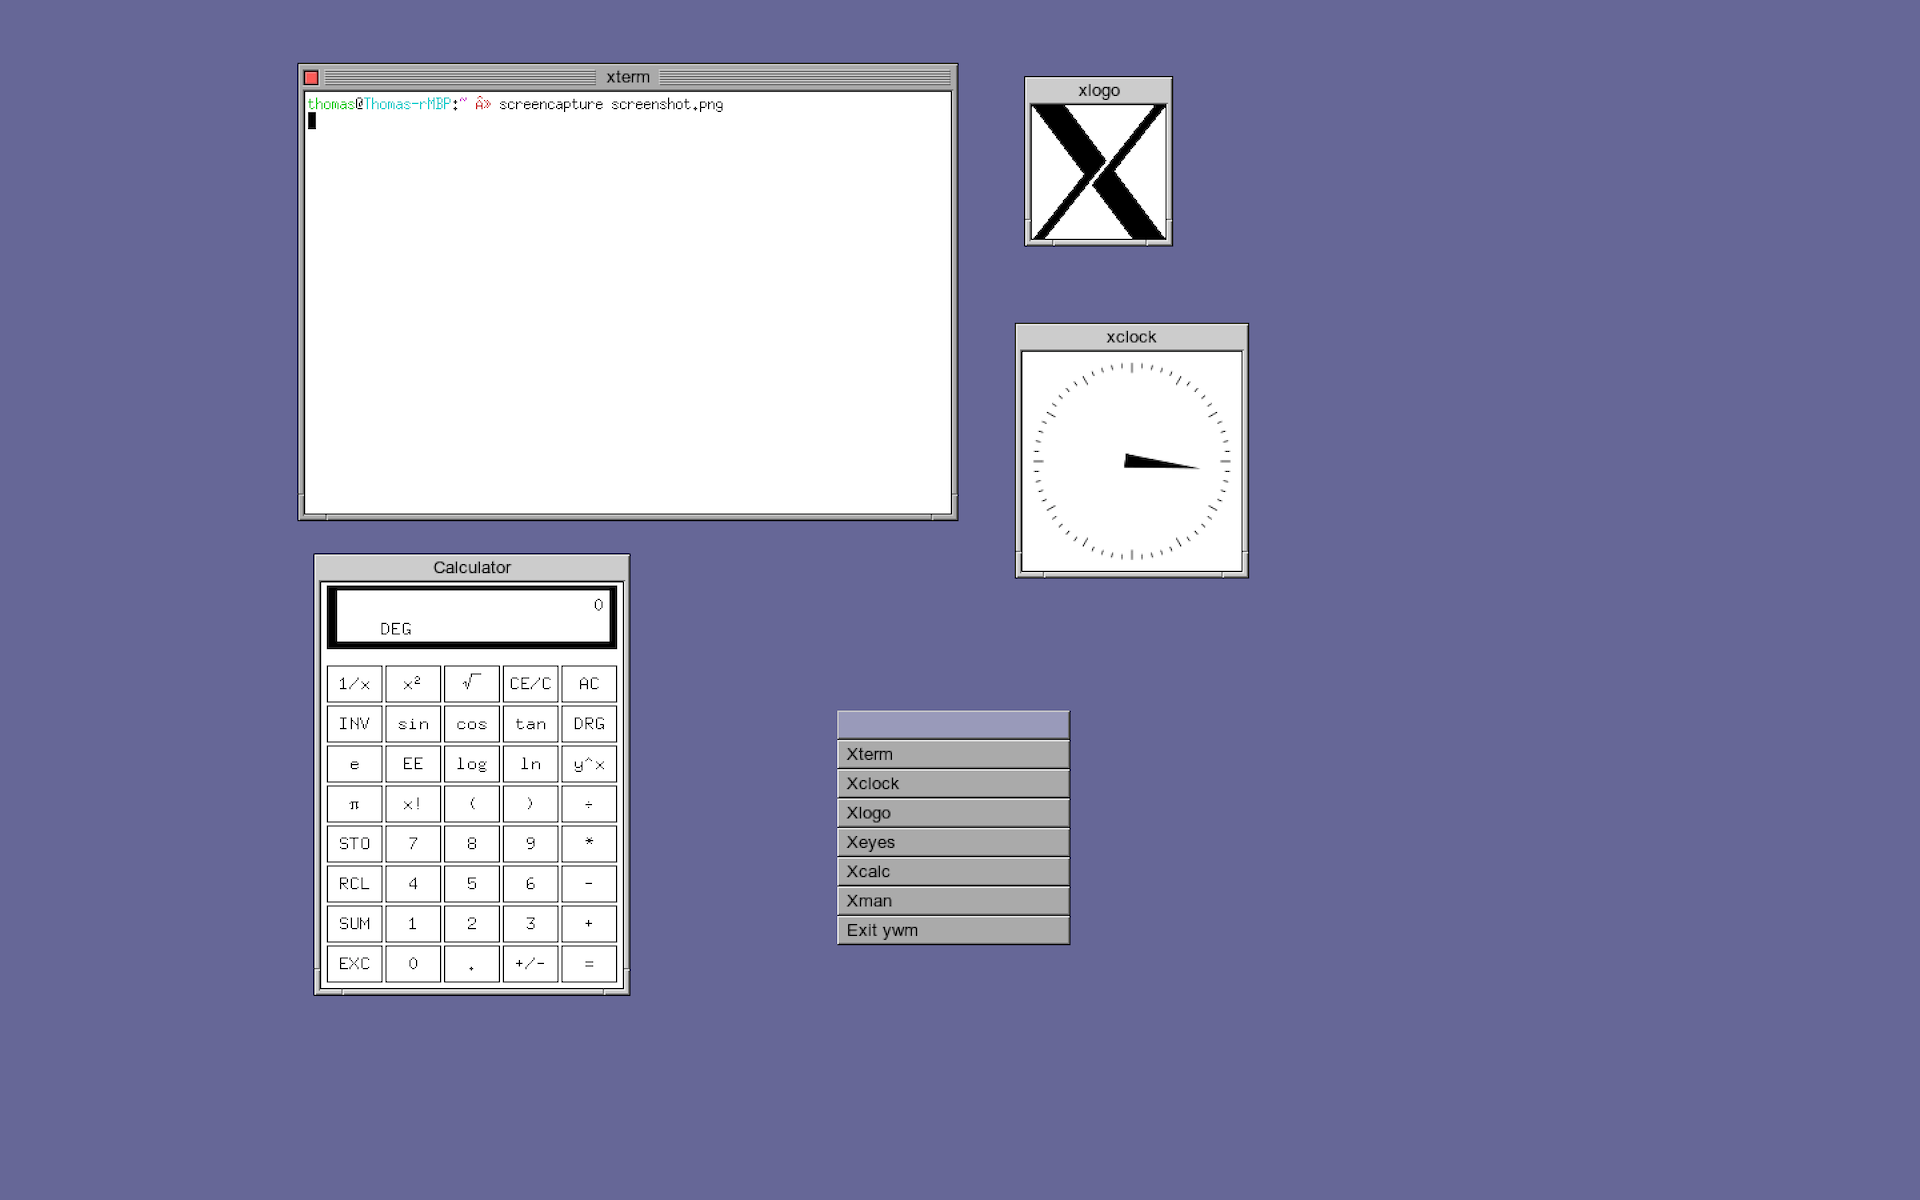
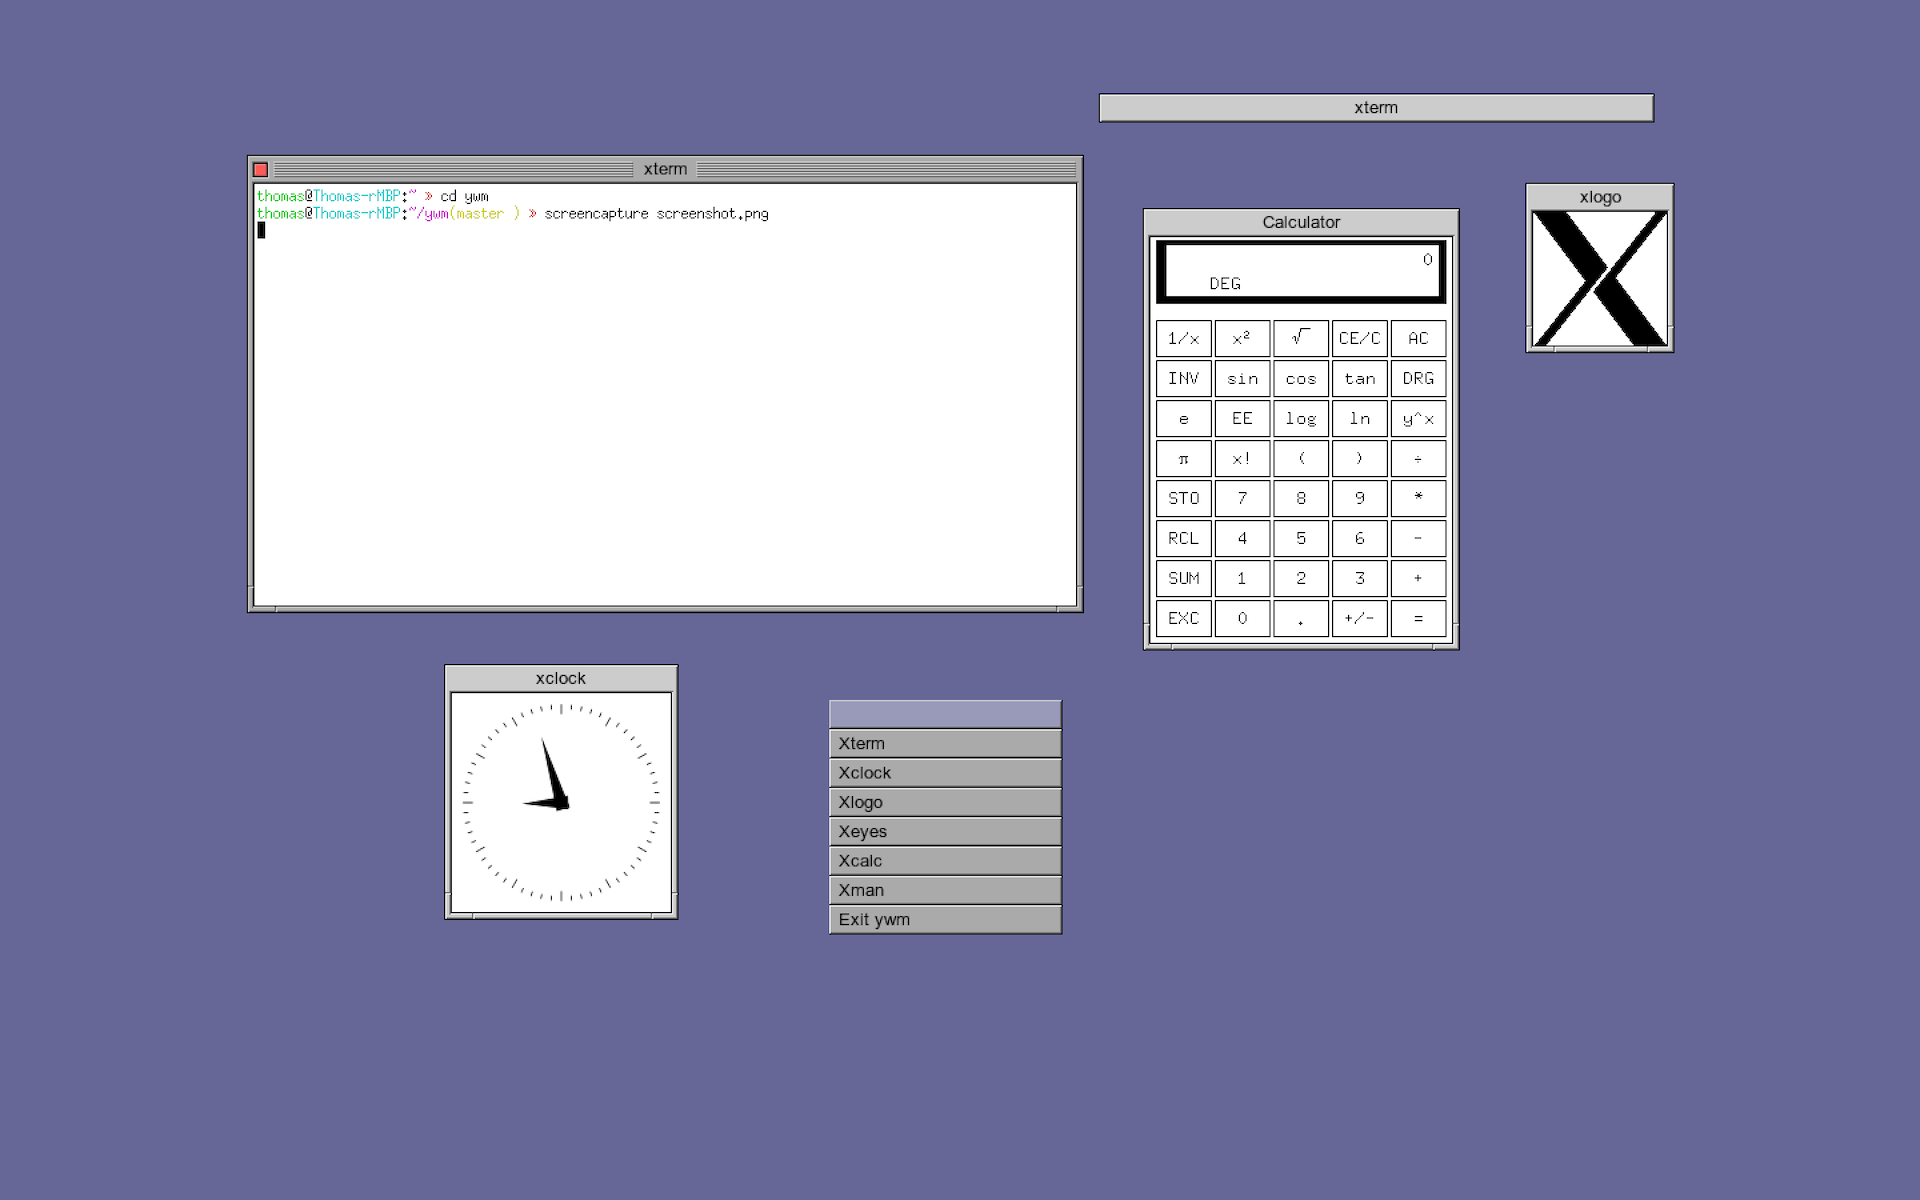
Implement window shading

Changed region(s): [[0.125, 0.0308, 0.875, 0.8325], [0.4062, 0.5858, 0.5625, 0.8017]]

diff --git a/src/ywm.c b/src/ywm.c
@@ -196,35 +196,39 @@ void redraw(Client *client)
   XDrawLine(dpy, client->frame, light_gc, 0, 0, width, 0);
   // left
   XDrawLine(dpy, client->frame, light_gc, 0, 1, 0, height - 1);
-  // right
-  XDrawLine(dpy, client->frame, light_gc, width - FRAME_BORDER_WIDTH, FRAME_TITLEBAR_HEIGHT, width - FRAME_BORDER_WIDTH, height - FRAME_BORDER_WIDTH);
-  // bottom
-  XDrawLine(dpy, client->frame, light_gc, FRAME_BORDER_WIDTH, height - FRAME_BORDER_WIDTH, width - FRAME_BORDER_WIDTH, height - FRAME_BORDER_WIDTH);  
-    
+  
   // dark border
   // top
-  XDrawLine(dpy, client->frame, dark_gc, FRAME_BORDER_WIDTH, FRAME_TITLEBAR_HEIGHT - 1, width - FRAME_BORDER_WIDTH, FRAME_TITLEBAR_HEIGHT - 1); 
-  // left
-  XDrawLine(dpy, client->frame, dark_gc, 3, FRAME_TITLEBAR_HEIGHT - 1, 3, height - FRAME_BORDER_WIDTH);
+  XDrawLine(dpy, client->frame, dark_gc, FRAME_BORDER_WIDTH, FRAME_TITLEBAR_HEIGHT - 1, width - FRAME_BORDER_WIDTH, FRAME_TITLEBAR_HEIGHT - 1);   
   // right
   XDrawLine(dpy, client->frame, dark_gc, width - 1, 1, width - 1, height); 
   // bottom
   XDrawLine(dpy, client->frame, dark_gc, 1, height - 1, width, height - 1);
   
-  // lower left corder
-  XDrawLine(dpy, client->frame, dark_gc, 0, height - FRAME_CORNER_OFFSET, FRAME_BORDER_WIDTH, height - FRAME_CORNER_OFFSET);
-  XDrawLine(dpy, client->frame, light_gc, 0, height - FRAME_CORNER_OFFSET + 1, FRAME_BORDER_WIDTH, height - FRAME_CORNER_OFFSET + 1);
-
-  XDrawLine(dpy, client->frame, dark_gc, FRAME_CORNER_OFFSET, height - FRAME_BORDER_WIDTH, FRAME_CORNER_OFFSET, height);
-  XDrawLine(dpy, client->frame, light_gc, FRAME_CORNER_OFFSET + 1, height - FRAME_BORDER_WIDTH, FRAME_CORNER_OFFSET + 1, height);
+  if (!client->shaded) {
+  	// light border right
+  	XDrawLine(dpy, client->frame, light_gc, width - FRAME_BORDER_WIDTH, FRAME_TITLEBAR_HEIGHT, width - FRAME_BORDER_WIDTH, height - FRAME_BORDER_WIDTH);
   
-  // lower right corner
-  XDrawLine(dpy, client->frame, dark_gc, width - FRAME_CORNER_OFFSET, height - FRAME_BORDER_WIDTH, width - FRAME_CORNER_OFFSET, height);
-  XDrawLine(dpy, client->frame, light_gc, width - FRAME_CORNER_OFFSET + 1, height - FRAME_BORDER_WIDTH, width - FRAME_CORNER_OFFSET + 1, height);
-  
-  XDrawLine(dpy, client->frame, dark_gc, width - FRAME_BORDER_WIDTH, height - FRAME_CORNER_OFFSET, width, height - FRAME_CORNER_OFFSET);  
-  XDrawLine(dpy, client->frame, light_gc, width - FRAME_BORDER_WIDTH, height - FRAME_CORNER_OFFSET + 1, width, height - FRAME_CORNER_OFFSET + 1);
+    // light border bottom
+    XDrawLine(dpy, client->frame, light_gc, FRAME_BORDER_WIDTH, height - FRAME_BORDER_WIDTH, width - FRAME_BORDER_WIDTH, height - FRAME_BORDER_WIDTH);  
 
+    // dark border left
+    XDrawLine(dpy, client->frame, dark_gc, 3, FRAME_TITLEBAR_HEIGHT - 1, 3, height - FRAME_BORDER_WIDTH);
+	  
+    // lower left corder
+    XDrawLine(dpy, client->frame, dark_gc, 0, height - FRAME_CORNER_OFFSET, FRAME_BORDER_WIDTH, height - FRAME_CORNER_OFFSET);
+    XDrawLine(dpy, client->frame, light_gc, 0, height - FRAME_CORNER_OFFSET + 1, FRAME_BORDER_WIDTH, height - FRAME_CORNER_OFFSET + 1);
+
+    XDrawLine(dpy, client->frame, dark_gc, FRAME_CORNER_OFFSET, height - FRAME_BORDER_WIDTH, FRAME_CORNER_OFFSET, height);
+    XDrawLine(dpy, client->frame, light_gc, FRAME_CORNER_OFFSET + 1, height - FRAME_BORDER_WIDTH, FRAME_CORNER_OFFSET + 1, height);
+  
+    // lower right corner
+    XDrawLine(dpy, client->frame, dark_gc, width - FRAME_CORNER_OFFSET, height - FRAME_BORDER_WIDTH, width - FRAME_CORNER_OFFSET, height);
+    XDrawLine(dpy, client->frame, light_gc, width - FRAME_CORNER_OFFSET + 1, height - FRAME_BORDER_WIDTH, width - FRAME_CORNER_OFFSET + 1, height);
+  
+    XDrawLine(dpy, client->frame, dark_gc, width - FRAME_BORDER_WIDTH, height - FRAME_CORNER_OFFSET, width, height - FRAME_CORNER_OFFSET);  
+    XDrawLine(dpy, client->frame, light_gc, width - FRAME_BORDER_WIDTH, height - FRAME_CORNER_OFFSET + 1, width, height - FRAME_CORNER_OFFSET + 1);
+  }
   Rect initial_window = { .x = x, .y = y, .width = width, .height = height};
   draw_window_titlebar(client, initial_window);
   draw_close_button(client, initial_window);
@@ -266,6 +270,7 @@ void frame(Window root, Window win)
   XReparentWindow(dpy, win, frame, 4, 20);  // Offset of client window within frame.
 	 	
   Client *client = (Client *)malloc(sizeof *client);
+  client->shaded = 0;
   client->client = win;
   client->frame = frame;
   client->close_button = close_button;

diff --git a/src/event.c b/src/event.c
@@ -58,7 +58,53 @@ void on_button_press(const XButtonEvent *ev)
     prev_mouse_xy = (Point){ .x = ev->x_root, .y = ev->y_root };
     start_window_geom = (Rect){ .x = x, .y = y, .width = width, .height = height };
     current_window_geom = (Rect){ .x = x, .y = y, .width = width, .height = height };
-
+	
+	if (is_title_bar(cursor_start_win_point)) {
+		if (click1_time == 0) {
+			click1_time = ev->time;
+			click2_time = 0;
+		} else if (click2_time == 0) {
+			click2_time = ev->time;
+			long diff = click2_time - click1_time;
+			
+			if (diff <= DBL_CLICK_SPEED) {
+				fprintf(stderr, "Double Click!\n");
+				Client *client = find_client(ev->window);
+			    XWindowAttributes client_attr;
+			    XGetWindowAttributes(dpy, client->client, &client_attr);
+				
+		        if (client_attr.map_state == IsUnmapped) {
+  				  client->shaded = 0;
+				  
+			      int x, y;
+			      unsigned width, height, border_width, depth;
+			      XGetGeometry(
+			                   dpy,
+			                   client->client,
+			                   &returned_root,
+			                   &x, &y,
+			                   &width, &height,
+			                   &border_width,
+			                   &depth);
+			
+				  XRaiseWindow(dpy, client->client);
+				  XResizeWindow(dpy, client->frame, width + 10, height + 26);
+		          XMapWindow(dpy, client->client);
+		        } else {
+  				  client->shaded = 1;
+		          XUnmapWindow(dpy, client->client);
+				  XResizeWindow(dpy, client->frame, width, 20);
+		        }
+			}
+			
+			click1_time = 0;
+			click2_time = 0;
+		}
+	} else {
+		click1_time = 0;
+		click2_time = 0;
+	}
+		
     XGrabPointer(dpy, 
                  ev->window, 
                  True,
@@ -70,7 +116,7 @@ void on_button_press(const XButtonEvent *ev)
                  CurrentTime);
 
     XRaiseWindow(dpy, ev->window);
-    focused_client = find_client(ev->window);
+ 	focused_client = find_client(ev->window);
 		
     YNode *curr = ylist_head(&clients);
     while (curr != NULL) {
@@ -121,7 +167,7 @@ void on_motion_notify(const XMotionEvent *ev)
     }
 		
     XMoveWindow(dpy, ev->window, x, y);
-  } else { // resize motion        
+  } else if (!c->shaded) { // resize motion          
     if (is_lower_right_corner(cursor_start_win_point)) {
       int xdiff = ev->x_root - cursor_start_point.x;
       int ydiff = ev->y_root - cursor_start_point.y;
@@ -153,6 +199,8 @@ void on_motion_notify(const XMotionEvent *ev)
 
   current_window_geom = (Rect){ .x = x, .y = y, .width = width, .height = height };
   prev_mouse_xy = (Point){ .x = ev->x_root, .y = ev->y_root };
+  click1_time = 0;
+  click2_time = 0;
 }
 
 void on_expose(const XExposeEvent *ev)

diff --git a/src/util.c b/src/util.c
@@ -190,7 +190,7 @@ void remove_client(Client* client) {
   XUngrabServer(dpy);
 }
 
-int snap_buffer = 20;
+int snap_buffer = 10;
 int resistance_threshold = 50;
 int snap_window_right(int x)
 {
@@ -214,6 +214,11 @@ int snap_window_bottom(int y)
 {
   int y_distance = y + start_window_geom.height + snap_buffer;
   return y_distance >= screen_h && y_distance <= screen_h + resistance_threshold;
+}
+
+int is_title_bar(Point p) 
+{
+	return p.x >= 19 && p.x <= start_window_geom.width - 7 && p.y > 0 && p.y <= FRAME_TITLEBAR_HEIGHT;
 }
 
 int is_left_frame(int x) 

diff --git a/src/event.h b/src/event.h
@@ -9,6 +9,10 @@
 #include "client.h"
 #include "util.h"
 
+#define DBL_CLICK_SPEED 350
+Time click1_time;
+Time click2_time;
+
 void on_key_press(const XKeyEvent* ev);
 void on_button_press(const XButtonEvent* ev);
 void on_button_release(const XButtonEvent* ev);

diff --git a/src/util.h b/src/util.h
@@ -26,6 +26,7 @@ int snap_window_right(int x);
 int snap_window_left(int x);
 int snap_window_top(int y);
 int snap_window_bottom(int y);
+int is_title_bar(Point point);
 int is_left_frame(int x);
 int is_right_frame(int x);
 int is_bottom_frame(int y);

diff --git a/src/client.h b/src/client.h
@@ -18,6 +18,7 @@ typedef struct {
   Window client;
   Window frame;
   XftDraw *xft_draw;
+  int shaded;
 } Client;
 
 #endif

diff --git a/README.md b/README.md
@@ -6,6 +6,8 @@ Ywm is a stacking window manager for X11.  Its UI takes inspiration from Apple's
 ## Usage
 Right mouse button anywhere but a window will show the root menu.
 
+Double clicking the title bar will shade/unshade the window.
+
 ## Root Menu
 The root menu is controlled by the ~/.ywm/ywm.menu.  This is a pipe (|) delimited file in the form of "label|command".  The default file is shown below
 
